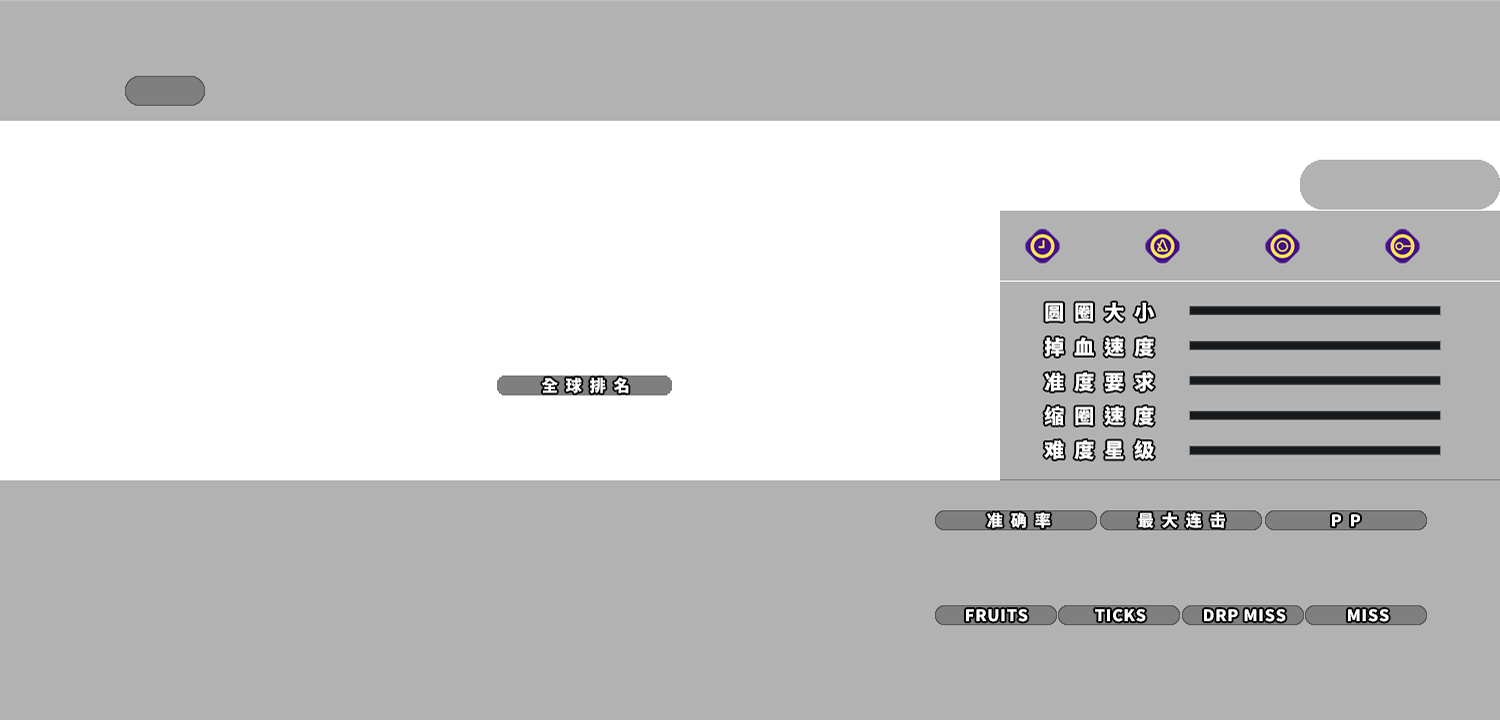
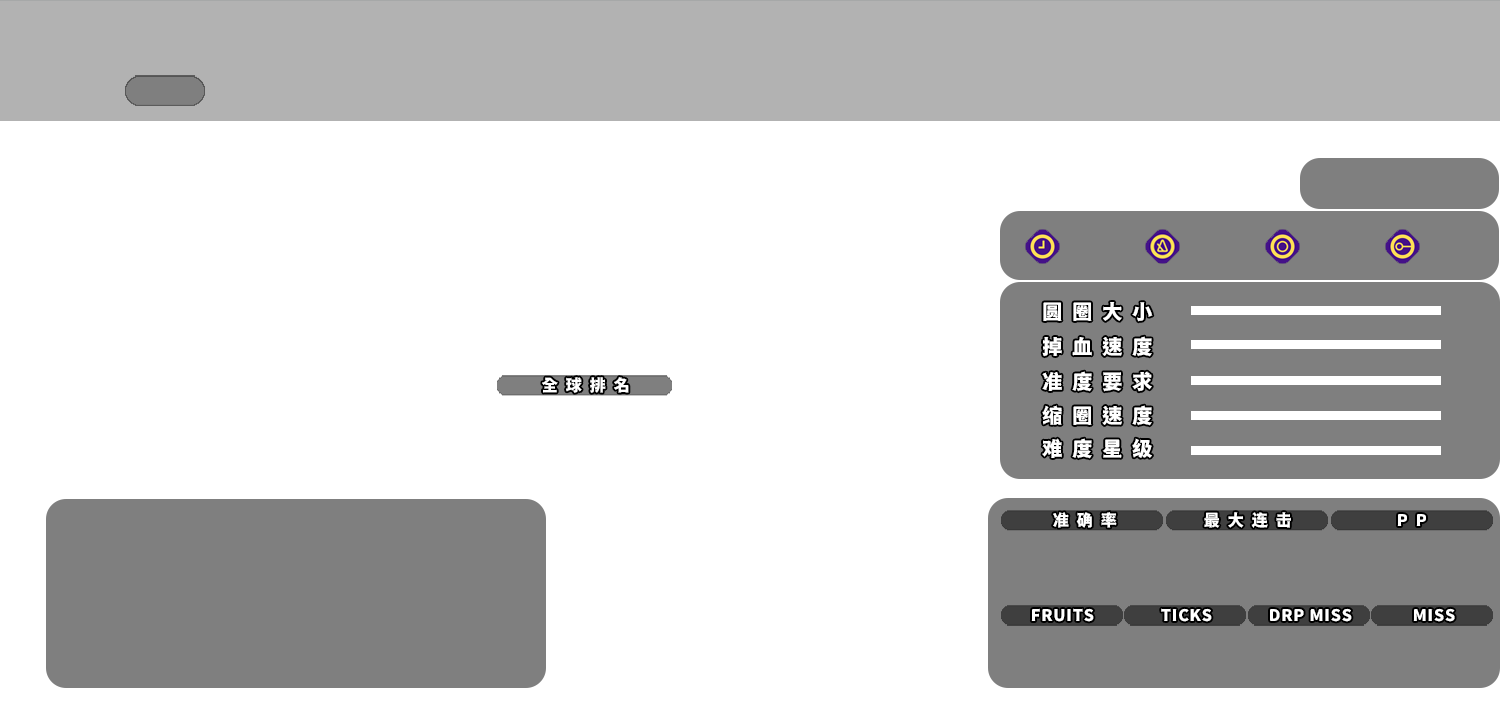
:sparkles: 细节优化等 (#24)
* 增加`score`高斯模糊度、重新定位判定显示区域

* 优化成绩图、资料卡样式

diff --git a/nonebot_plugin_osubot/draw/score.py b/nonebot_plugin_osubot/draw/score.py
@@ -83,7 +83,7 @@ async def draw_score(project: str,
         with open(cover_path, 'wb') as f:
             f.write(bg.getvalue())
     cover_crop = crop_bg('BG', cover_path)
-    cover_gb = cover_crop.filter(ImageFilter.GaussianBlur(1))
+    cover_gb = cover_crop.filter(ImageFilter.GaussianBlur(3))
     cover_img = ImageEnhance.Brightness(cover_gb).enhance(2 / 4.0)
     im.alpha_composite(cover_img, (0, 0))
     # 获取成绩背景做底图
@@ -129,14 +129,14 @@ async def draw_score(project: str,
     # 头像
     icon_bg = Image.open(user_icon).convert('RGBA').resize((170, 170))
     icon_img = draw_fillet(icon_bg, 15)
-    im.alpha_composite(icon_img, (120, 510))
+    im.alpha_composite(icon_img, (60, 510))
     # 地区
     country = osufile / 'flags' / f'{score_info.user.country_code}.png'
     country_bg = Image.open(country).convert('RGBA').resize((66, 45))
-    im.alpha_composite(country_bg, (310, 560))
+    im.alpha_composite(country_bg, (250, 577))
     # supporter
     if score_info.user.is_supporter:
-        im.alpha_composite(SupporterBg.resize((40, 40)), (310, 615))
+        im.alpha_composite(SupporterBg.resize((40, 40)), (250, 640))
     map_json = await task2
     mapinfo = Beatmap(**map_json)
     # cs, ar, od, hp, stardiff
@@ -159,7 +159,7 @@ async def draw_score(project: str,
     w_status = DataText(1400, 184, 20, mapinfo.status.capitalize(), Torus_SemiBold, anchor='mm')
     im = draw_text(im, w_status)
     # mapid
-    w_mapid = DataText(1425, 89, 27, f'Setid: {score_info.beatmap.beatmapset_id}  |  Mapid: {score_info.beatmap.id}',
+    w_mapid = DataText(1425, 89, 27, f'Mapid: {score_info.beatmap.id}',
                        Torus_SemiBold, anchor='rm')
     im = draw_text(im, w_mapid)
     # 曲名
@@ -180,10 +180,10 @@ async def draw_score(project: str,
     w_score = DataText(498, 251, 75, f'{score_info.score:,}', Torus_Regular, anchor='lm')
     im = draw_text(im, w_score)
     # 玩家
-    w_played = DataText(498, 316, 18, '玩家:', Torus_SemiBold, anchor='lm')
-    im = draw_text(im, w_played)
-    w_username = DataText(630, 316, 18, score_info.user.username, Torus_SemiBold, anchor='lm')
-    im = draw_text(im, w_username)
+    #w_played = DataText(498, 316, 18, '玩家:', Torus_SemiBold, anchor='lm')
+    #im = draw_text(im, w_played)
+    #w_username = DataText(630, 316, 18, score_info.user.username, Torus_SemiBold, anchor='lm')
+    #im = draw_text(im, w_username)
     # 时间
     w_date = DataText(498, 341, 18, '达成时间:', Torus_SemiBold, anchor='lm')
     im = draw_text(im, w_date)
@@ -195,10 +195,10 @@ async def draw_score(project: str,
     w_grank = DataText(583, 410, 24, grank, Torus_SemiBold, anchor='mm')
     im = draw_text(im, w_grank)
     # 左下玩家名
-    w_l_username = DataText(310, 530, 30, score_info.user.username, Torus_SemiBold, anchor='lm')
+    w_l_username = DataText(250, 530, 30, score_info.user.username, Torus_SemiBold, anchor='lm')
     im = draw_text(im, w_l_username)
     # 国内排名
-    user_rank = DataText(385, 590, 25, f'#{info.statistics.country_rank}', Torus_SemiBold, anchor='lm')
+    user_rank = DataText(325, 610, 25, f'#{info.statistics.country_rank}', Torus_SemiBold, anchor='lm')
     im = draw_text(im, user_rank)
     # # 在线，离线
     # w_line = DataText(195, 652, 30, '在线' if score_info.user.is_online else '离线', Torus_SemiBold,
@@ -206,55 +206,55 @@ async def draw_score(project: str,
     # im = draw_text(im, w_line)
     # acc,cb,pp,300,100,50,miss
     if score_info.mode == 'osu':
-        w_sspp = DataText(650, 550, 30, ss_pp, Torus_Regular, anchor='mm')
+        w_sspp = DataText(720, 550, 30, ss_pp, Torus_Regular, anchor='mm')
         im = draw_text(im, w_sspp)
-        w_ifpp = DataText(770, 550, 30, if_pp, Torus_Regular, anchor='mm')
+        w_ifpp = DataText(840, 550, 30, if_pp, Torus_Regular, anchor='mm')
         im = draw_text(im, w_ifpp)
-        w_pp = DataText(890, 550, 30, int(round(pp_info.pp, 0)), Torus_Regular, anchor='mm')
-        w_aimpp = DataText(650, 645, 30, int(round(pp_info.pp_aim, 0)), Torus_Regular, anchor='mm')
+        w_pp = DataText(960, 550, 30, int(round(pp_info.pp, 0)), Torus_Regular, anchor='mm')
+        w_aimpp = DataText(720, 645, 30, int(round(pp_info.pp_aim, 0)), Torus_Regular, anchor='mm')
         im = draw_text(im, w_aimpp)
-        w_spdpp = DataText(770, 645, 30, int(round(pp_info.pp_speed, 0)), Torus_Regular, anchor='mm')
+        w_spdpp = DataText(840, 645, 30, int(round(pp_info.pp_speed, 0)), Torus_Regular, anchor='mm')
         im = draw_text(im, w_spdpp)
-        w_accpp = DataText(890, 645, 30, int(round(pp_info.pp_acc, 0)), Torus_Regular, anchor='mm')
+        w_accpp = DataText(960, 645, 30, int(round(pp_info.pp_acc, 0)), Torus_Regular, anchor='mm')
         im = draw_text(im, w_accpp)
-        w_acc = DataText(1087, 550, 30, f'{score_info.accuracy * 100:.2f}%', Torus_Regular, anchor='mm')
-        w_maxcb = DataText(1315, 550, 30, f'{score_info.max_combo:,}/{mapinfo.max_combo:,}', Torus_Regular, anchor='mm')
-        w_300 = DataText(1030, 645, 30, score_info.statistics.count_300, Torus_Regular, anchor='mm')
-        w_100 = DataText(1144, 645, 30, score_info.statistics.count_100, Torus_Regular, anchor='mm')
-        w_50 = DataText(1258, 645, 30, score_info.statistics.count_50, Torus_Regular, anchor='mm')
+        w_acc = DataText(1157, 550, 30, f'{score_info.accuracy * 100:.2f}%', Torus_Regular, anchor='mm')
+        w_maxcb = DataText(1385, 550, 30, f'{score_info.max_combo:,}/{mapinfo.max_combo:,}', Torus_Regular, anchor='mm')
+        w_300 = DataText(1100, 645, 30, score_info.statistics.count_300, Torus_Regular, anchor='mm')
+        w_100 = DataText(1214, 645, 30, score_info.statistics.count_100, Torus_Regular, anchor='mm')
+        w_50 = DataText(1328, 645, 30, score_info.statistics.count_50, Torus_Regular, anchor='mm')
         im = draw_text(im, w_50)
-        w_miss = DataText(1372, 645, 30, score_info.statistics.count_miss, Torus_Regular, anchor='mm')
+        w_miss = DataText(1442, 645, 30, score_info.statistics.count_miss, Torus_Regular, anchor='mm')
     elif score_info.mode == 'taiko':
-        w_acc = DataText(1050, 550, 30, f'{score_info.accuracy * 100:.2f}%', Torus_Regular, anchor='mm')
-        w_maxcb = DataText(1202, 550, 30, f'{score_info.max_combo:,}/{mapinfo.max_combo:,}',
+        w_acc = DataText(1118, 550, 30, f'{score_info.accuracy * 100:.2f}%', Torus_Regular, anchor='mm')
+        w_maxcb = DataText(1270, 550, 30, f'{score_info.max_combo:,}',
                            Torus_Regular, anchor='mm')
-        w_pp = DataText(1352, 550, 30, f'{int(round(pp_info.pp, 0))}/{ss_pp}', Torus_Regular, anchor='mm')
-        w_300 = DataText(1050, 645, 30, score_info.statistics.count_300, Torus_Regular, anchor='mm')
-        w_100 = DataText(1202, 645, 30, score_info.statistics.count_100, Torus_Regular, anchor='mm')
-        w_miss = DataText(1352, 645, 30, score_info.statistics.count_miss, Torus_Regular, anchor='mm')
+        w_pp = DataText(1420, 550, 30, f'{int(round(pp_info.pp, 0))}/{ss_pp}', Torus_Regular, anchor='mm')
+        w_300 = DataText(1118, 645, 30, score_info.statistics.count_300, Torus_Regular, anchor='mm')
+        w_100 = DataText(1270, 645, 30, score_info.statistics.count_100, Torus_Regular, anchor='mm')
+        w_miss = DataText(1420, 645, 30, score_info.statistics.count_miss, Torus_Regular, anchor='mm')
     elif score_info.mode == 'fruits':
-        w_acc = DataText(1016, 550, 30, f'{score_info.accuracy * 100:.2f}%', Torus_Regular, anchor='mm')
-        w_maxcb = DataText(1180, 550, 30, f'{score_info.max_combo:,}/{mapinfo.max_combo:,}',
+        w_acc = DataText(1083, 550, 30, f'{score_info.accuracy * 100:.2f}%', Torus_Regular, anchor='mm')
+        w_maxcb = DataText(1247, 550, 30, f'{score_info.max_combo:,}/{mapinfo.max_combo:,}',
                            Torus_Regular, anchor='mm')
-        w_pp = DataText(1344, 550, 30, f'{int(round(pp_info.pp, 0))}/{ss_pp}', Torus_Regular, anchor='mm')
-        w_300 = DataText(995, 645, 30, score_info.statistics.count_300, Torus_Regular, anchor='mm')
-        w_100 = DataText(1118, 645, 30, score_info.statistics.count_100, Torus_Regular, anchor='mm')
-        w_katu = DataText(1242, 645, 30, score_info.statistics.count_katu, Torus_Regular, anchor='mm')
+        w_pp = DataText(1411, 550, 30, f'{int(round(pp_info.pp, 0))}/{ss_pp}', Torus_Regular, anchor='mm')
+        w_300 = DataText(1062, 645, 30, score_info.statistics.count_300, Torus_Regular, anchor='mm')
+        w_100 = DataText(1185, 645, 30, score_info.statistics.count_100, Torus_Regular, anchor='mm')
+        w_katu = DataText(1309, 645, 30, score_info.statistics.count_katu, Torus_Regular, anchor='mm')
         im = draw_text(im, w_katu)
-        w_miss = DataText(1365, 645, 30, score_info.statistics.count_miss, Torus_Regular, anchor='mm')
+        w_miss = DataText(1432, 645, 30, score_info.statistics.count_miss, Torus_Regular, anchor='mm')
     else:
-        w_acc = DataText(935, 550, 30, f'{score_info.accuracy * 100:.2f}%', Torus_Regular, anchor='mm')
-        w_maxcb = DataText(1130, 550, 30, f'{score_info.max_combo:,}', Torus_Regular, anchor='mm')
-        w_pp = DataText(1328, 550, 30, f'{int(round(pp_info.pp, 0))}/{ss_pp}', Torus_Regular, anchor='mm')
-        w_geki = DataText(886, 645, 30, score_info.statistics.count_geki, Torus_Regular, anchor='mm')
+        w_acc = DataText(1002, 550, 30, f'{score_info.accuracy * 100:.2f}%', Torus_Regular, anchor='mm')
+        w_maxcb = DataText(1197, 550, 30, f'{score_info.max_combo:,}', Torus_Regular, anchor='mm')
+        w_pp = DataText(1395, 550, 30, f'{int(round(pp_info.pp, 0))}/{ss_pp}', Torus_Regular, anchor='mm')
+        w_geki = DataText(953, 645, 30, score_info.statistics.count_geki, Torus_Regular, anchor='mm')
         im = draw_text(im, w_geki)
-        w_300 = DataText(984, 645, 30, score_info.statistics.count_300, Torus_Regular, anchor='mm')
-        w_katu = DataText(1083, 645, 30, score_info.statistics.count_katu, Torus_Regular, anchor='mm')
+        w_300 = DataText(1051, 645, 30, score_info.statistics.count_300, Torus_Regular, anchor='mm')
+        w_katu = DataText(1150, 645, 30, score_info.statistics.count_katu, Torus_Regular, anchor='mm')
         im = draw_text(im, w_katu)
-        w_100 = DataText(1182, 645, 30, score_info.statistics.count_100, Torus_Regular, anchor='mm')
-        w_50 = DataText(1280, 645, 30, score_info.statistics.count_50, Torus_Regular, anchor='mm')
+        w_100 = DataText(1249, 645, 30, score_info.statistics.count_100, Torus_Regular, anchor='mm')
+        w_50 = DataText(1347, 645, 30, score_info.statistics.count_50, Torus_Regular, anchor='mm')
         im = draw_text(im, w_50)
-        w_miss = DataText(1378, 645, 30, score_info.statistics.count_miss, Torus_Regular, anchor='mm')
+        w_miss = DataText(1445, 645, 30, score_info.statistics.count_miss, Torus_Regular, anchor='mm')
     im = draw_text(im, w_acc)
     im = draw_text(im, w_maxcb)
     im = draw_text(im, w_pp)
